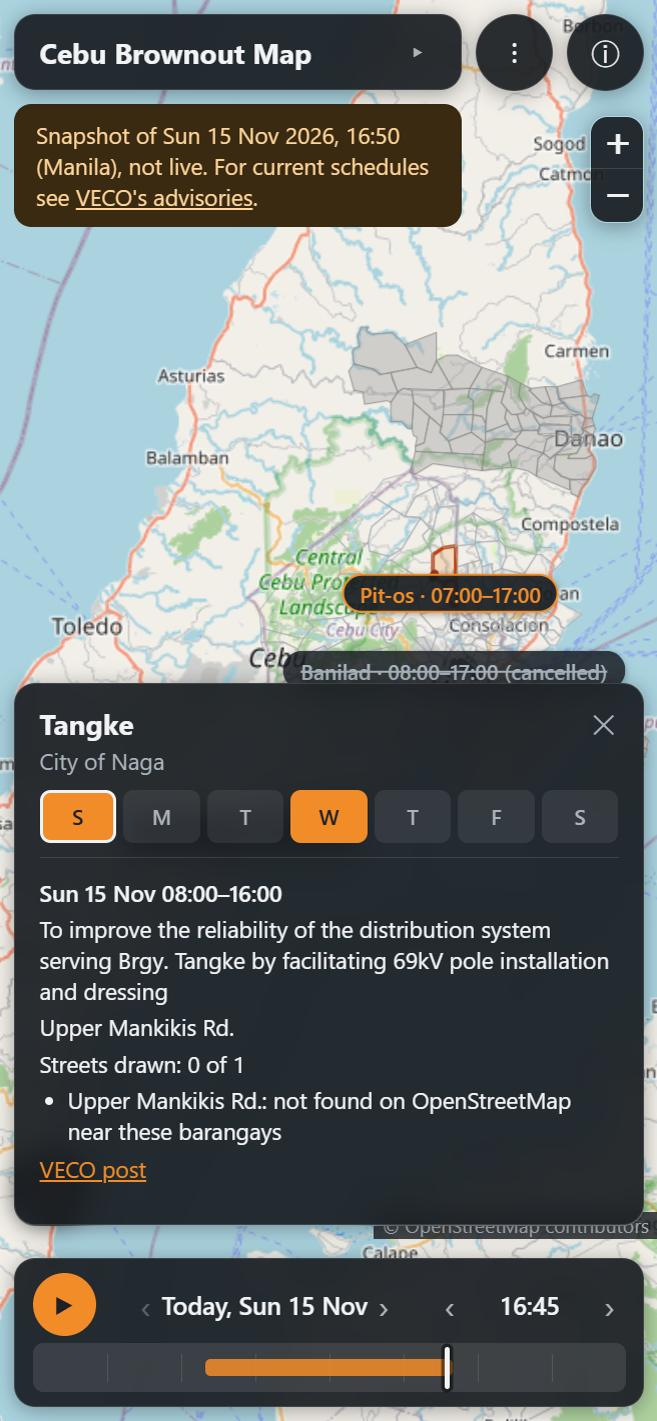
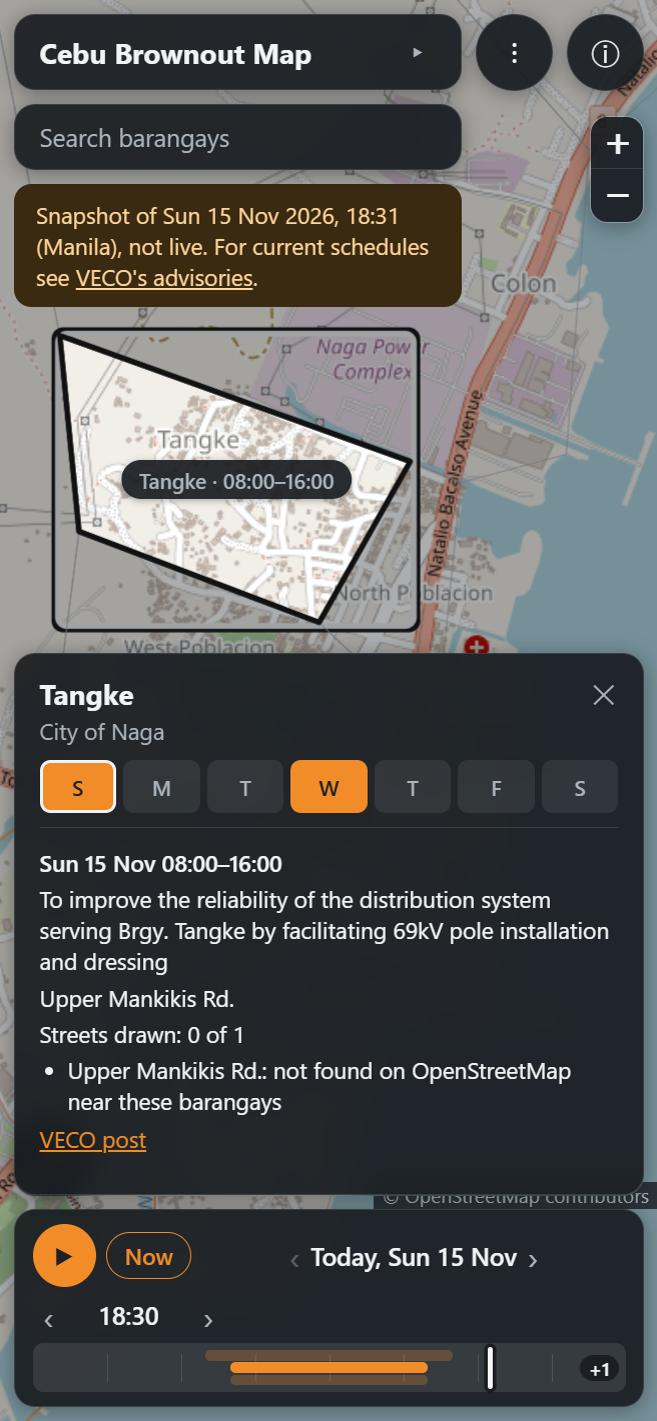
docs: README and ROADMAP for selection, search, Now and lanes; fit below the whole top stack

diff --git a/src/outages/map/static/js/select.js b/src/outages/map/static/js/select.js
@@ -2,7 +2,7 @@
 // much room the floating UI takes. Pure: map.js does the Leaflet calls.
 
 const MARGIN = 12;
-const MAX_COVER = 0.6; // at most 60 % of each axis may be padding: 40 % stays free
+const MAX_COVER = 0.8; // at most 80 % of each axis may be padding: 20 % stays free (a phone sheet is tall)
 
 /** Selection state with camera memory. Each action returns {kind, to?}:
  *  "fly" (fit the new barangay), "revert" (back to `to`, the view before the first selection
@@ -54,7 +54,7 @@ export function createSelection() {
 }
 
 /** Fit padding for Leaflet's fitBounds: each side clears the floating UI covering it (plus a
- *  margin); an axis whose padding would cover more than 60 % of the viewport is scaled down. */
+ *  margin); an axis whose padding would cover more than 80 % of the viewport is scaled down. */
 export function uiPadding(viewport, rects) {
   const side = (v) => (v ? v + MARGIN : MARGIN);
   let [l, r, t, b] = [side(rects.left), side(rects.right), side(rects.top), side(rects.bottom)];

diff --git a/src/outages/map/static/js/map.js b/src/outages/map/static/js/map.js
@@ -672,14 +672,16 @@ function flyToBarangay(layer) {
   const rect = (el) => (el && !el.hidden && el.getClientRects().length ? el.getBoundingClientRect() : null);
   const card = rect(bcard.card);
   const sheet = card && bcard.card.classList.contains("sheet");
-  const title = rect($("title-card"));
+  // The top-left stack: title, search and any notices; the lowest edge counts.
+  const tops = [$("title-card"), $("search"), $("notices")].map(rect).filter(Boolean);
+  const topEdge = tops.length ? Math.max(...tops.map((r) => r.bottom)) : 0;
   const bar = rect($("timebar"));
   const tr = rect(document.querySelector(".corner-tr .round-row"));
   const pad = uiPadding(
     { w: box.width, h: box.height },
     {
       left: card && !sheet ? card.right - box.left : 0,
-      top: title ? title.bottom - box.top : 0,
+      top: topEdge ? topEdge - box.top : 0,
       right: tr ? box.right - tr.left : 0,
       bottom: Math.max(bar ? box.bottom - bar.top : 0, sheet ? box.bottom - card.top : 0),
     },

diff --git a/ROADMAP.md b/ROADMAP.md
@@ -170,6 +170,7 @@ Runs on my own PC: **Python + httpx/selectolax + SQLite + APScheduler**, a Teleg
 - **2026-11-15** — **Review page: search every street in the area.** The page offered only the 5 OSM names spelled closest to VECO's, so a local name for a differently named road (`SRP Road` → Cebu South Coastal Road) needed a CSV edit. A search box now lists any in-area name (the same set `--apply` accepts), draws it on demand (`/streets/review/lines`), and `/decide` accepts it after checking it on the server.
 
 - **2026-11-15** — **Map UI refresh: brainstorm, spec, plan, build** (`feat/ui-refresh`). Spec `docs/superpowers/specs/2026-11-15-ui-refresh-design.md`, plan `docs/superpowers/plans/2026-11-15-ui-refresh.md`. Owner decisions: map page and `/history`; one shared `base.css` and `map.js` split into modules; corner layout; dark cards; **15-minute steps** with smooth playback. Built: slot model in `timeline.js`, pill state, `frame.js` (playhead, change tracking, fade fallback), `timebar.js`, `cards.js`, `menu.js`, `bcard.js`, `dom.js`; a slot change restyles only the barangays, lines and pills that changed. **Real DB, read-only:** week 15–21 Nov, streets drawn (309 paths): per-slot script mean 0.73 ms, max 2.5 ms; day change max 5.9 ms; real play across two midnights 7,653 frames, max interval 6.7 ms (unthrottled; the 4× CPU DevTools run is the owner's). Snapshot built to a temp folder and checked (map + history, `history.html` link, snapshot notice). Waiting on the owner: ten minutes on the page (desktop and phone), the throttled run, then review and PR.
+- **2026-11-15** — **Map UI refresh addendum (owner, after first use).** Spec §15, plan Tasks 11–15. Owner asked for: a hover label on the track; per-outage **lanes** on the track (owner's pick of three) with the selected barangay's outages bright; select = zoom to fit (clear of the cards) + dim the rest, click again / Esc / ✕ / empty map revert to the view before the first selection, zooming 2 levels out deselects; search with each barangay's status **at the current time** (current window fetched separately when another week is shown); a **Now** button that follows the clock until the user moves the time. Found in the browser: `/` and `/history` had no `Cache-Control`, so a cached old page met new JS and broke; both now send `no-cache` (test first). Checked on the real DB (read-only) at desktop, 375 and 320 px, faked clock across a slot boundary, past week, snapshot build.
 - **2026-11-15** — **Suggester skips names that already have an alias.** An alias draws only where its OSM street runs, so a name's mentions elsewhere stayed `not_found` and the suggester queued them again; the owner then decided 8 such rows (7 n, `N. Bacalso St.` → Natalio Bacalso Avenue) and `--apply` dropped all 8 without a word (one alias per town and name). Now `streets suggest` and the review page leave aliased names out (23 rows off the page), and `--apply` prints each decision it drops.
 
 ### Known issues
@@ -267,6 +268,7 @@ Owner, 2026-11-13: the page around the map looks bland; take cues from zoom.eart
 - [x] Label chips as pills with a state colour (outage now / later today / cancelled), like the place chips on zoom.earth. → plus "ended today"; cancelled never counts as now; "+N" for more outages.
 - [x] Barangay card: a click pins a side card for that barangay with its outages across the week (a 7-day strip), instead of only a popup. → a sheet above the bar on a phone; hover popups stay.
 - [x] Compact legend as a colour bar in a corner; credits behind an ⓘ button.
+- [x] Owner's additions after first use (spec §15): track hover label and lanes per outage; select zooms and dims, with camera revert; barangay search with the status now; Now button.
 - [x] Floating cards and controls stay readable over the light map on a phone in daylight (WCAG AA contrast). → `tests/js/contrast.test.mjs` reads the tokens from `base.css`; checked by eye on a phone: owner.
 
 ## Phase 7 — Later

diff --git a/README.md b/README.md
@@ -118,7 +118,7 @@ applied without the owner. The owner decided 14 (13 Qwen picks accepted, 1 other
 | | |
 |---|---|
 | ![A barangay's card on a phone: the week strip, time, purpose, places, VECO's post](docs/images/card-phone.jpg) | ![The map on a phone: folded title, pills, timeline bar](docs/images/map-phone.jpg) |
-| A barangay's card (a sheet on a phone) | The map on a phone |
+| A selected barangay on a phone: zoomed, the rest dimmed, its card as a sheet | The map on a phone: search, Now, lanes on the track |
 
 ![The menu: week picker, show cancelled, AM/PM, street lines, "Not on the map", History](docs/images/menu.jpg)
 
@@ -203,9 +203,18 @@ ignored from then on. Chats in `TELEGRAM_ALLOWED_CHAT_IDS` never need approval.
 `serve` also serves the map at **http://127.0.0.1:8765** (or `python -m outages map` alone). The
 map fills the screen; the controls float over it. Pick a day and a time on the bar at the bottom
 (‹ day ›, ‹ hour ›, or drag the track), or press ▶, and see which barangays **may** be without
-power then, in 15-minute steps. Hover a barangay for a quick popup; click (or tap) it to pin its
-card: a strip of the week's days, then the selected day's times, purpose, streets and VECO's
-post. Times are Manila time whatever your computer's zone.
+power then, in 15-minute steps. **Now** follows the clock until you move the time yourself.
+Hover a barangay for a quick popup; click (or tap) it to select it: the map zooms to it, dims
+the rest and pins its card (a strip of the week's days, then the selected day's times, purpose,
+streets and VECO's post). Click it again, press Esc or ✕ to go back to where you were; zooming
+well out also lets go of it. Times are Manila time whatever your computer's zone.
+
+- **Search:** type a barangay or town; each result shows its brownout status at the current
+  time (orange = on now, orange outline = coming up, grey outline = cancelled), whatever week
+  the map shows. Enter or a click selects it.
+- **Track:** each outage of the day is a segment; overlapping outages sit in separate rows (up
+  to 3, then "+n"). Hover the track for the time and the barangays out then; with a barangay
+  selected, its outages stay bright.
 
 - **Keys:** ← / → move 15 minutes, Shift + ← / → an hour, Space plays or pauses (with the page
   or the track focused; a focused map pans with its arrows instead). Esc closes a menu or card.
